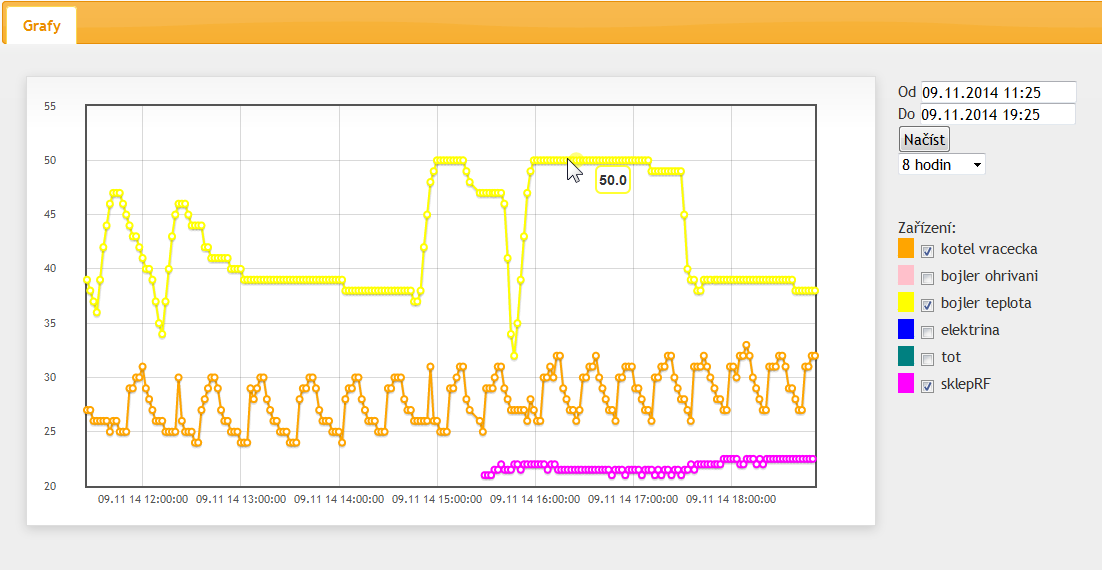
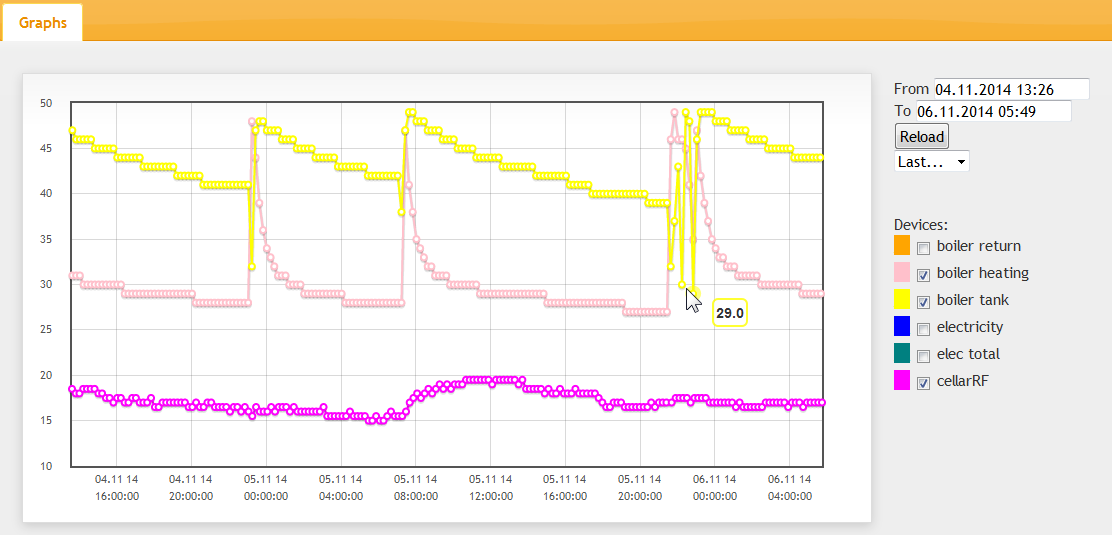
english screenshot

diff --git a/public/index.html b/public/index.html
@@ -1,6 +1,6 @@
 <!DOCTYPE html PUBLIC "-//W3C//DTD XHTML 1.0 Strict//EN" "http://www.w3.org/TR/xhtml1/DTD/xhtml1-strict.dtd">  
 <html>
-<head><title>Chart</title>
+<head><title>NogHub</title>
 
 <link href="favicon.png" rel="icon" type="image/png" />
 
@@ -368,7 +368,7 @@ autoApp.controller('eventController',  function($scope, $http) {
 	
 	<div id="tabs">
 <ul>
-<li><a href="#tabs-1">Grafy</a></li>
+<li><a href="#tabs-1">Graphs</a></li>
 </ul>
 <div id="tabs-1">
 	<table>
@@ -381,23 +381,23 @@ autoApp.controller('eventController',  function($scope, $http) {
 	<td style="padding:20px">
 	
 		<div>
-	 		Od <input type="text" id="dateTimeFrom" value="18.08.2010 10:50" /><br/>
-			Do <input type="text" id="dateTimeTo" value="18.08.2024 10:50" /><br />
-			<input type="button" id="dateReload" value="Načíst" />
+	 		From <input type="text" id="dateTimeFrom" value="18.08.2010 10:50" /><br/>
+			To <input type="text" id="dateTimeTo" value="18.08.2024 10:50" /><br />
+			<input type="button" id="dateReload" value="Reload" />
 		</div>	
 		
 		<div>
 		<select onchange="timeSetLastDays(this.value)">
-			<option value="0">Poslední...</option>
-			<option value="-2">2 hodiny</option>
-			<option value="-8">8 hodin</option>
-			<option value="-12">12 hodin</option>
-			<option value="1">den</option>
-			<option value="7">týden</option>
-			<option value="31">měsíc</option>
-			<option value="90">čtvrtletí</option>
-			<option value="180">pololetí</option>
-			<option value="365">rok</option>
+			<option value="0">Last...</option>
+			<option value="-2">2 hours</option>
+			<option value="-8">8 hours</option>
+			<option value="-12">12 hours</option>
+			<option value="1">day</option>
+			<option value="7">week</option>
+			<option value="31">month</option>
+			<option value="90">quarter</option>
+			<option value="180">half year</option>
+			<option value="365">year</option>
 		</select>
 		</div>
 		
@@ -418,7 +418,7 @@ autoApp.controller('eventController',  function($scope, $http) {
 		
 		<div>
 		<br/><br/>
-		Zařízení:<br/>
+		Devices:<br/>
 	<div id="devices"></div>
 	</div>
 	</td>
